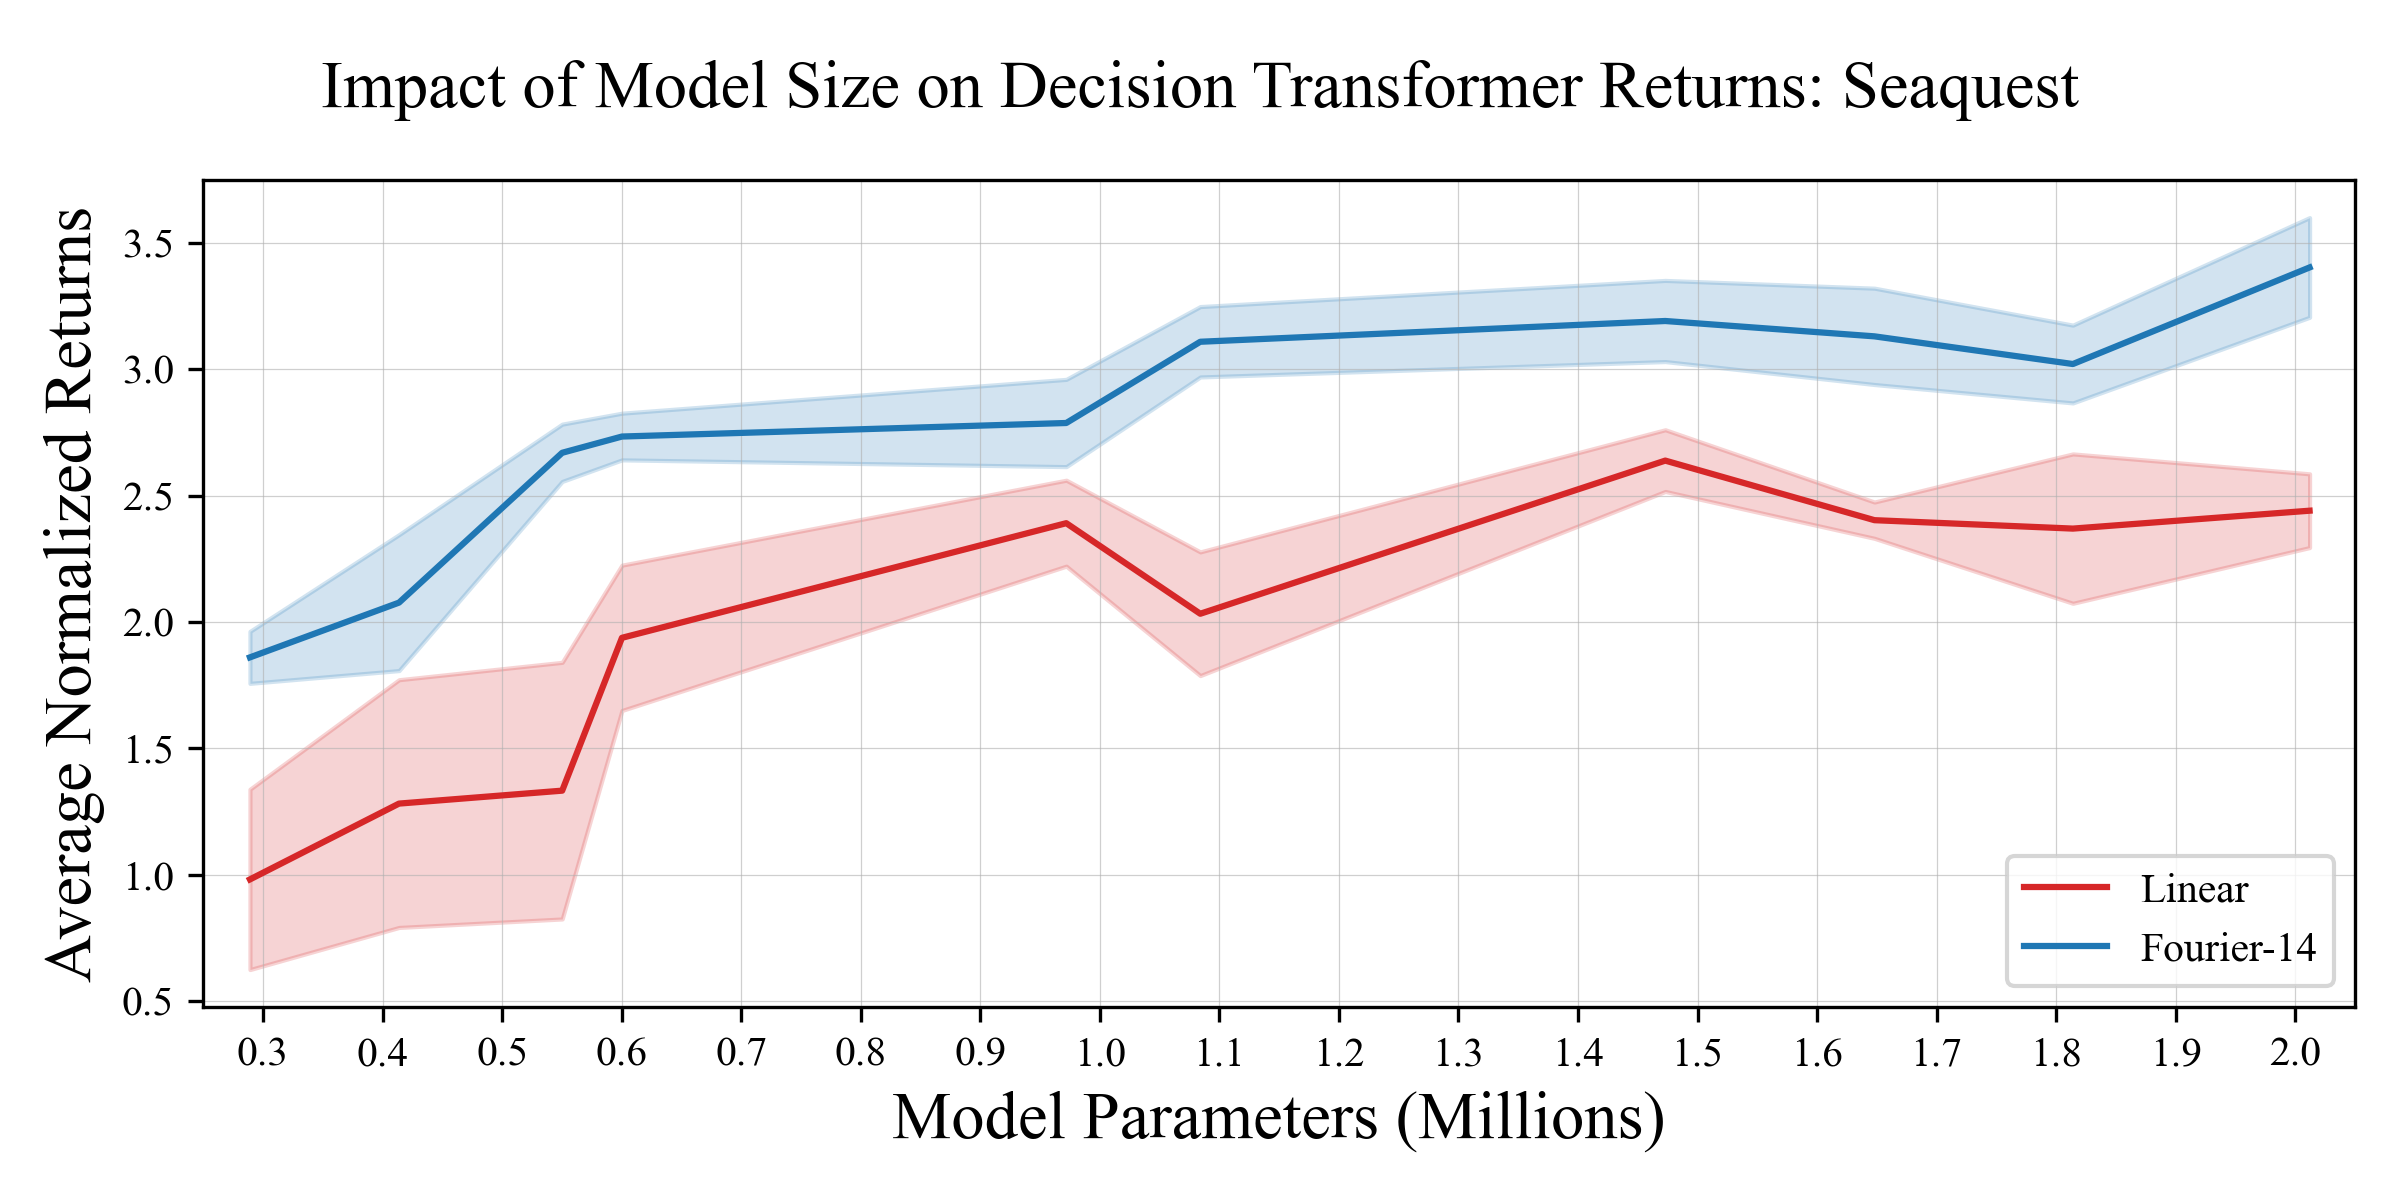
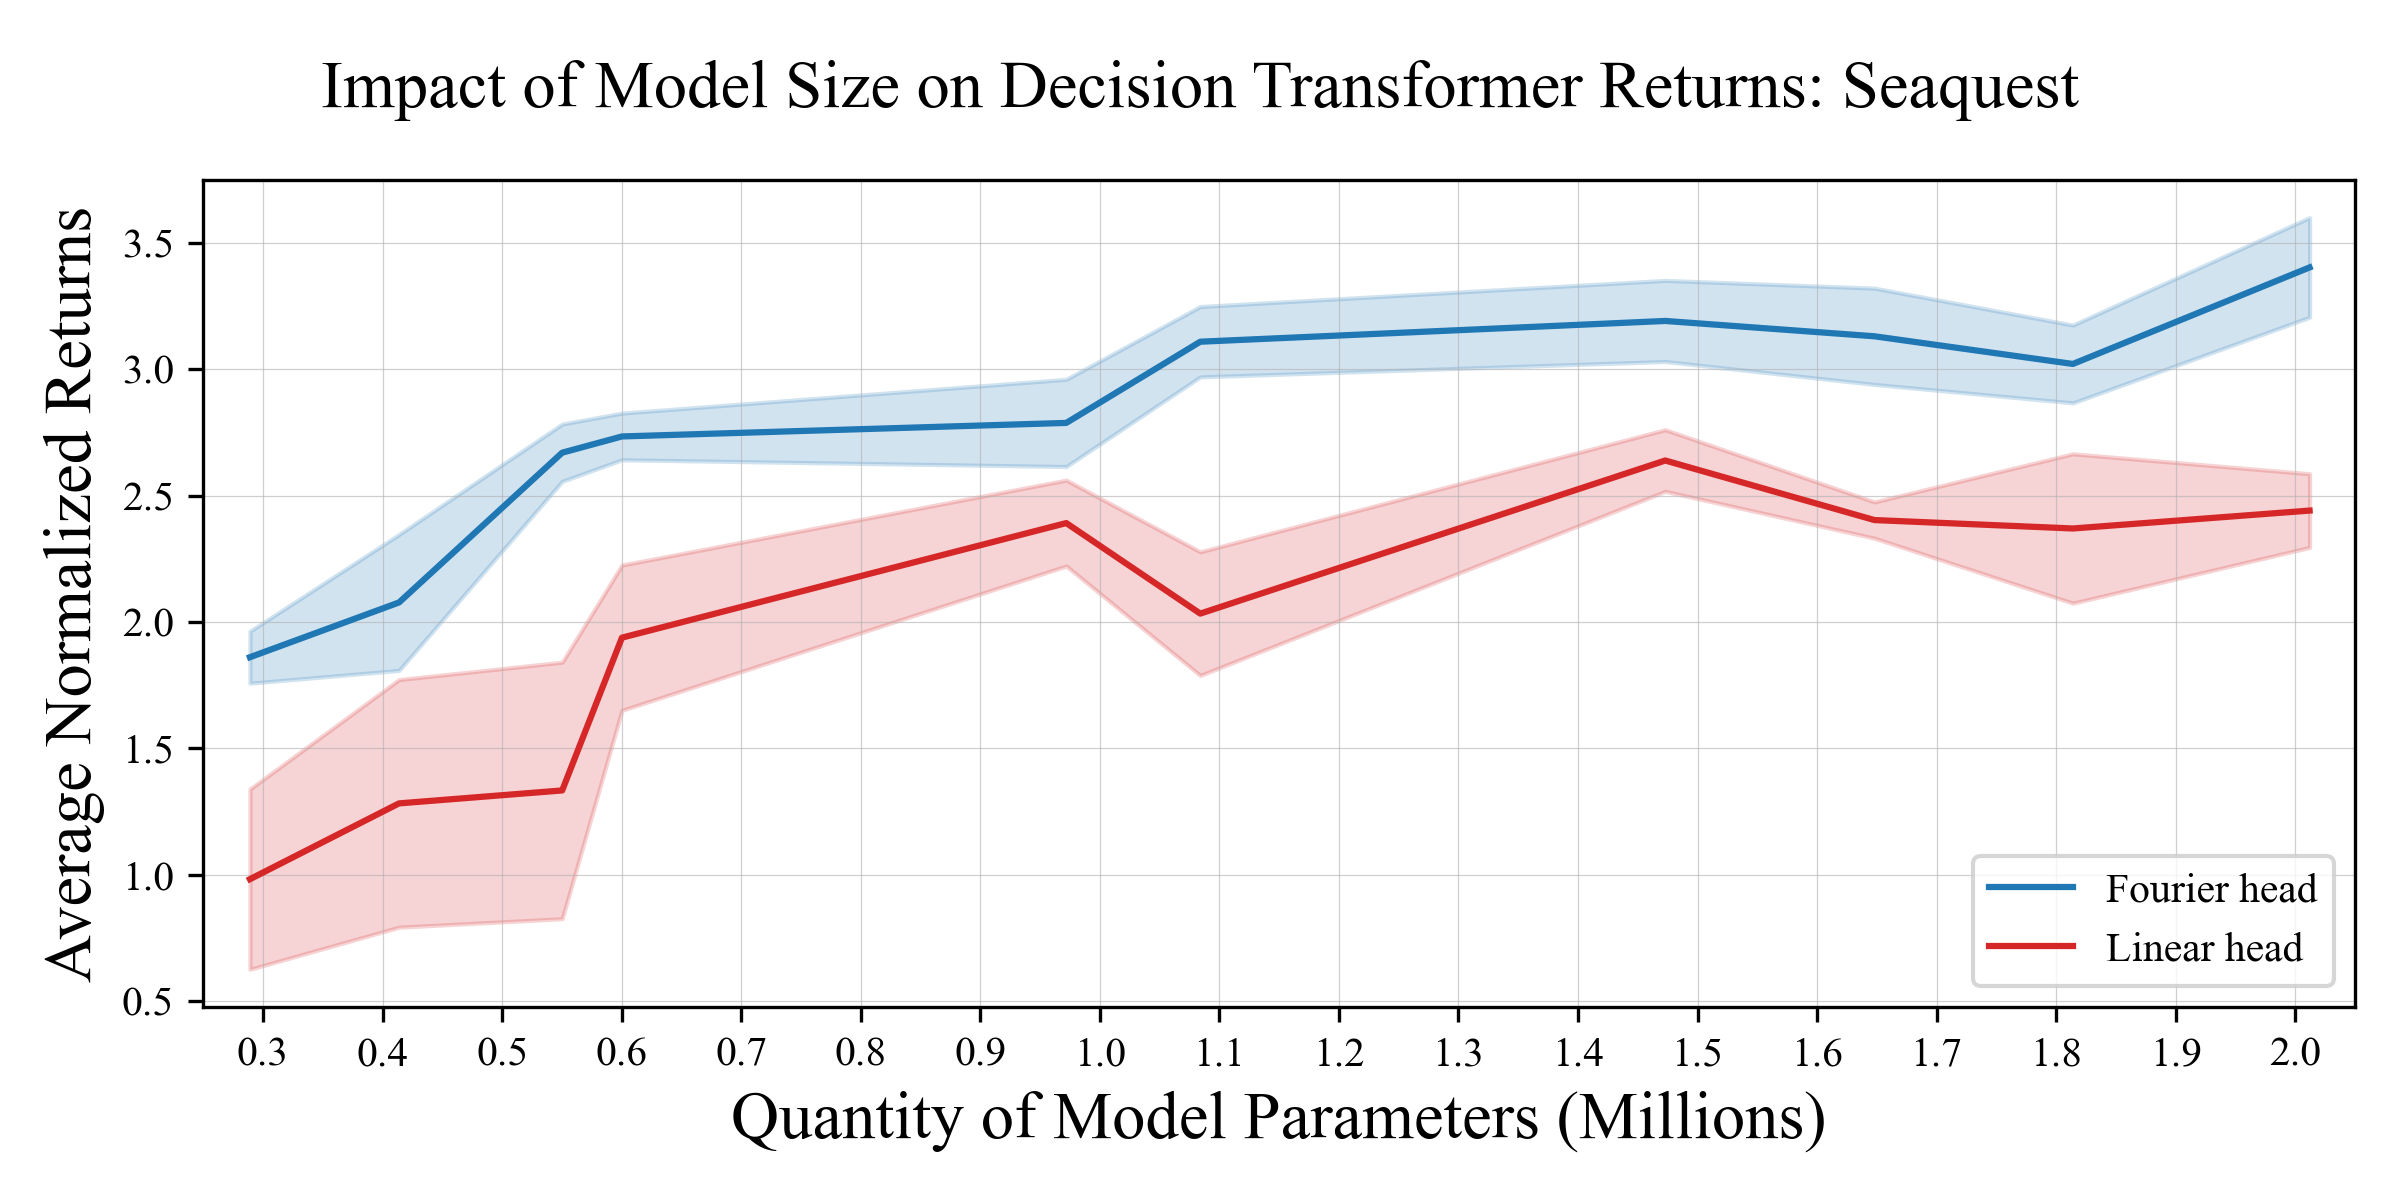
update atari model size graph

Changed region(s): [[0.3125, 0.8942, 0.75, 0.9558], [0.8125, 0.7092, 0.9688, 0.8325]]

diff --git a/imitation-learning/scripts/eval/atari_graph_varying_model_size.py b/imitation-learning/scripts/eval/atari_graph_varying_model_size.py
@@ -86,19 +86,8 @@ def create_graph(x_values, linear_returns, fourier_returns, linear_returns_std, 
 
     DIVIDE_STD_BY = (1/0.67)  # this gives 50% confidence interval
     
-    # Plot linear returns
-    ax.plot(x_values, linear_returns, c="tab:red", label="Linear")
-    # Plot standard deviation tunnel for linear returns
-    ax.fill_between(
-        x_values, 
-        np.array(linear_returns) - np.array(linear_returns_std)/DIVIDE_STD_BY, 
-        np.array(linear_returns) + np.array(linear_returns_std)/DIVIDE_STD_BY, 
-        color="tab:red", 
-        alpha=0.2
-    )
-
     # Plot fourier returns
-    ax.plot(x_values, fourier_returns, c="tab:blue", label="Fourier-14")
+    ax.plot(x_values, fourier_returns, c="tab:blue", label="Fourier head")
     # Plot standard deviation tunnel for fourier returns
     ax.fill_between(
         x_values, 
@@ -107,9 +96,20 @@ def create_graph(x_values, linear_returns, fourier_returns, linear_returns_std, 
         color="tab:blue", 
         alpha=0.2
     )
+
+    # Plot linear returns
+    ax.plot(x_values, linear_returns, c="tab:red", label="Linear head")
+    # Plot standard deviation tunnel for linear returns
+    ax.fill_between(
+        x_values, 
+        np.array(linear_returns) - np.array(linear_returns_std)/DIVIDE_STD_BY, 
+        np.array(linear_returns) + np.array(linear_returns_std)/DIVIDE_STD_BY, 
+        color="tab:red", 
+        alpha=0.2
+    )
     
     # Set labels and title
-    ax.set_xlabel("Model Parameters (Millions)", fontsize=16)
+    ax.set_xlabel("Quantity of Model Parameters (Millions)", fontsize=16)
     ax.set_ylabel("Average Normalized Returns", fontsize=16)
     fig.suptitle("Impact of Model Size on Decision Transformer Returns: Seaquest", fontsize=16, y=0.95)
     
